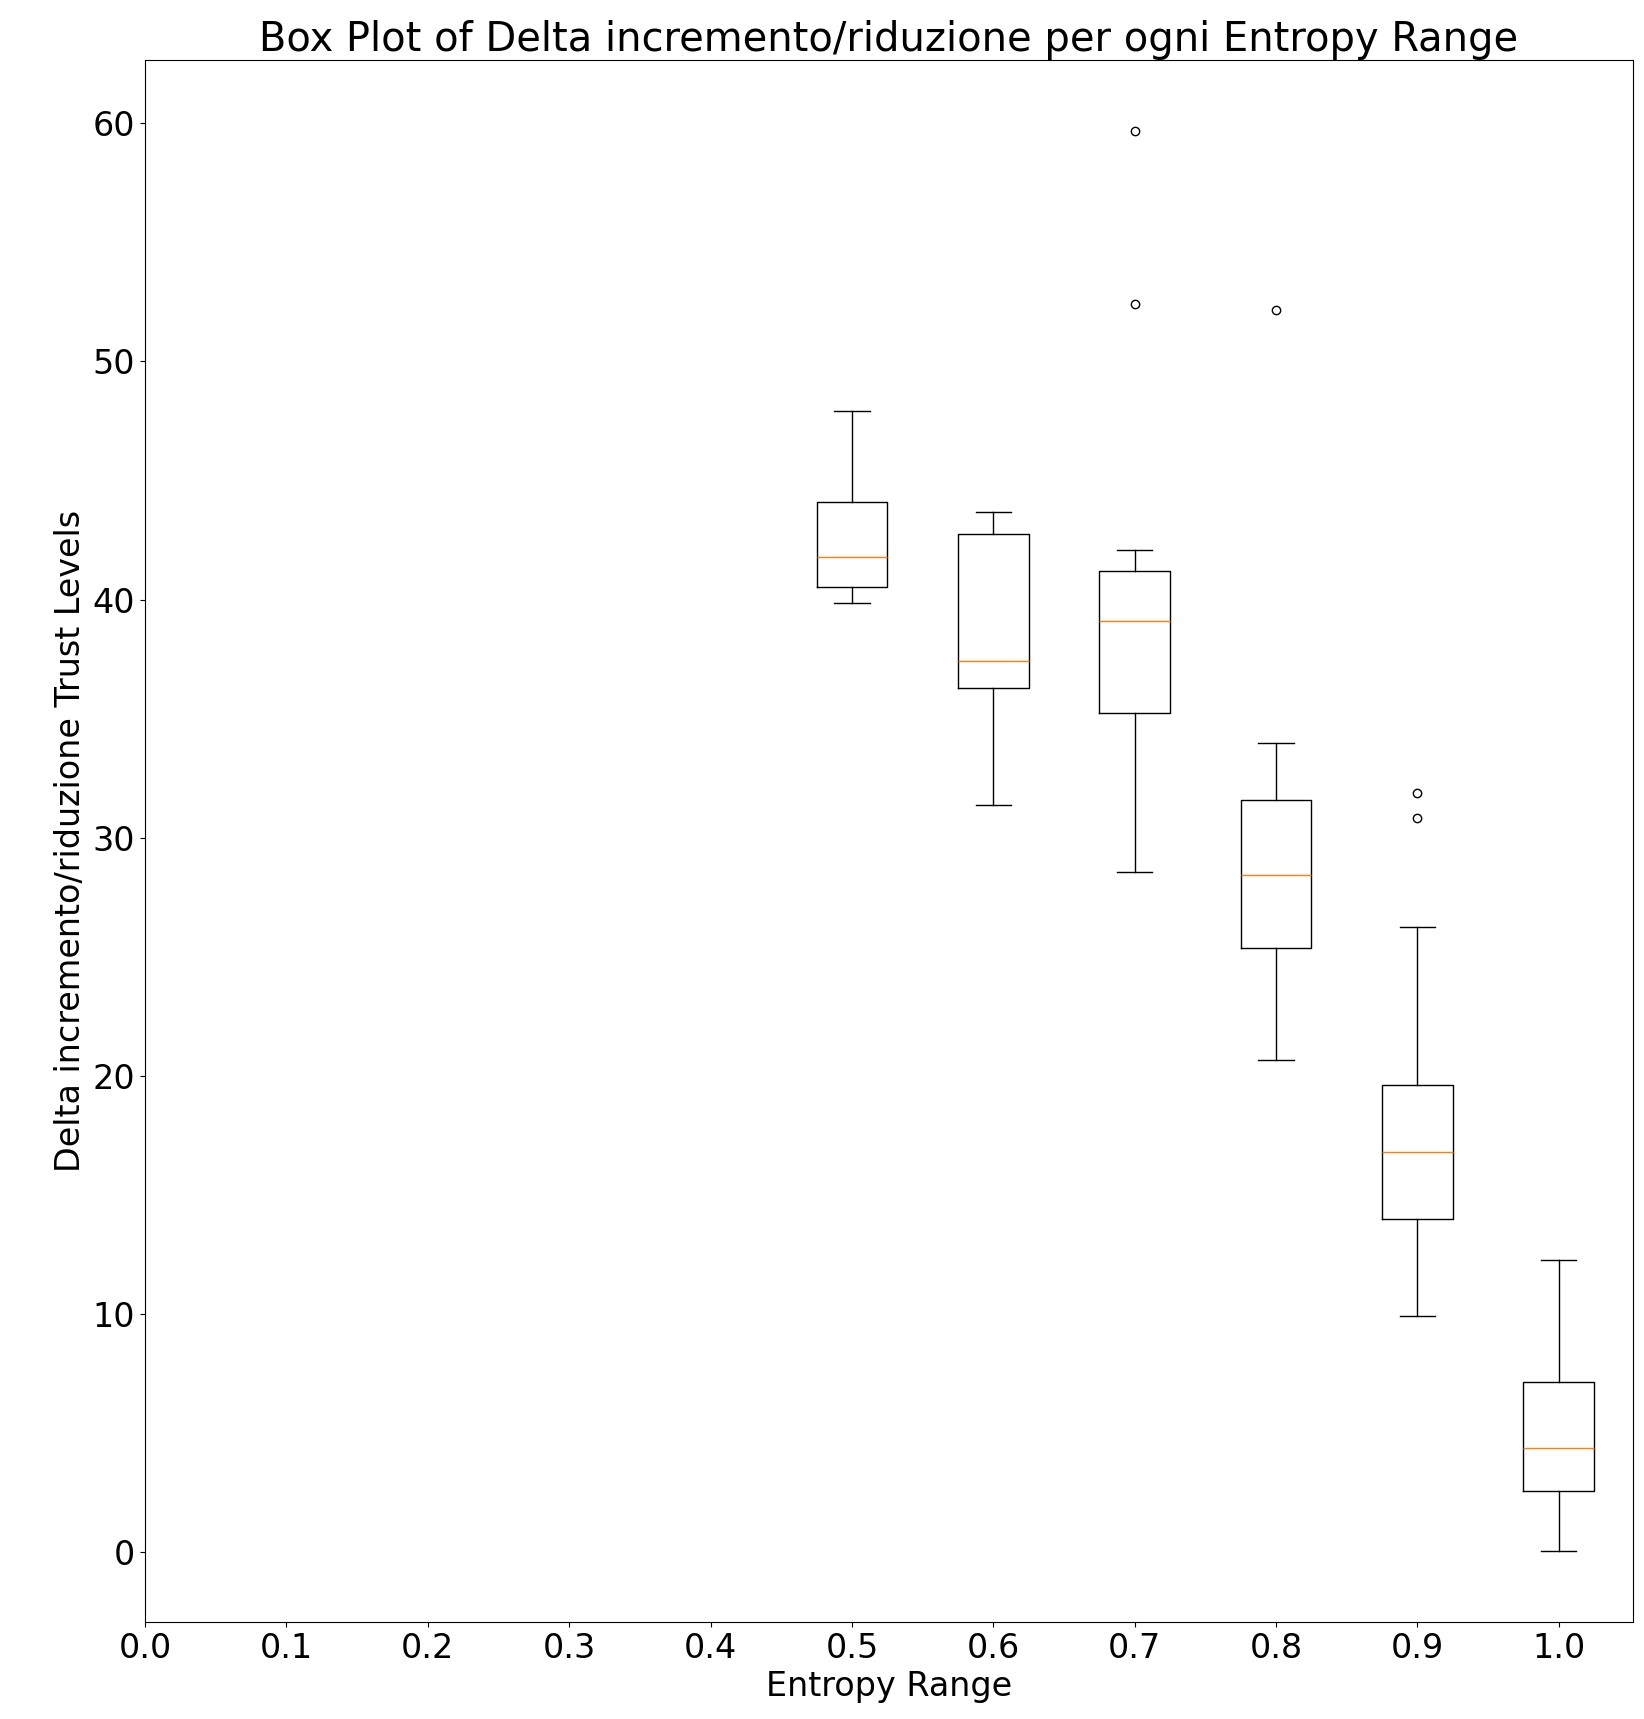
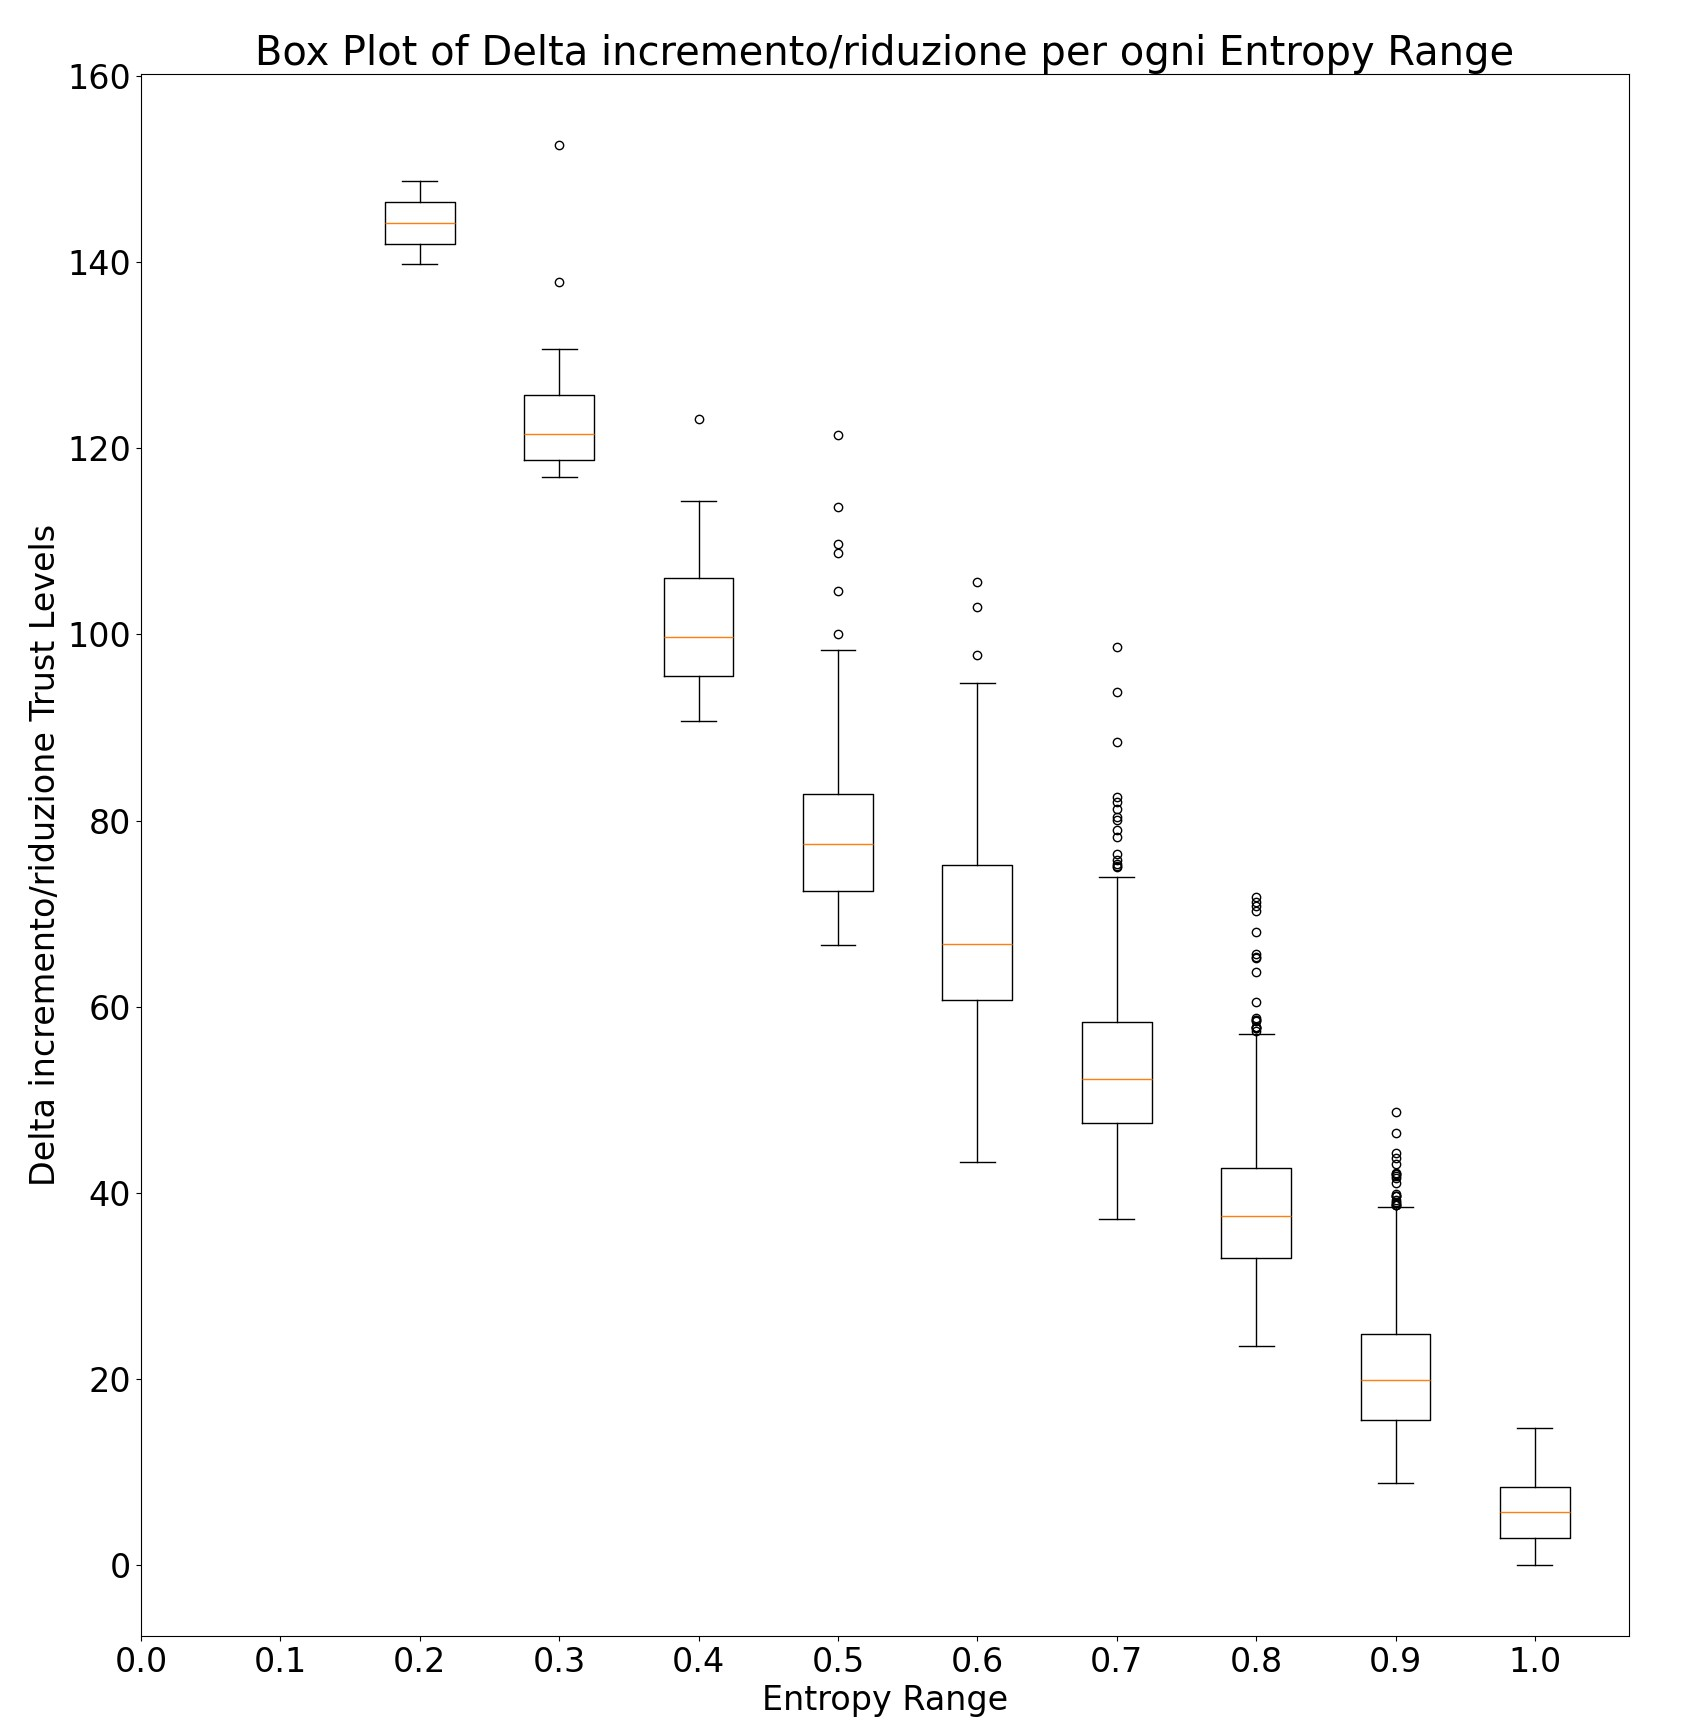
Burder di analisi

diff --git a/analysis/montecarlo_simulation.py b/analysis/montecarlo_simulation.py
@@ -4,7 +4,7 @@ import matplotlib.pyplot as plt
 def custom_round(x, prec=2, base=.1):
     return round(base * round(float(x)/base),prec)
 
-def monte_carlo_simulation(num_trusted, num_iterations, stake_valutazione, stake_condivisione):
+def monte_carlo_simulation(num_trusted, num_iterations, stake_valutazione, stake_condivisione, reset=False):
     trustlevels = np.full(num_trusted, 50.0)
     trs_tokens = np.full(num_trusted, 500.0)
 
@@ -25,9 +25,9 @@ def monte_carlo_simulation(num_trusted, num_iterations, stake_valutazione, stake
 
         evaluators = np.setdiff1d(np.arange(NUM_TRUSTED), sharer)
 
-        # Simulazione di valutazioni basate sulla affidabilità dello sharer
-        sharer_reliability = trustlevels[sharer] / 100.0
-        confidence_scores = np.random.uniform(0.4, 1.0, len(evaluators))
+        # Simulazione di valutazioni pseudo realistiche
+        # sharer_reliability = trustlevels[sharer] / 100.0
+        confidence_scores = np.random.uniform(0.4, 1.1, len(evaluators))
         correct_evaluation = np.random.choice([True, False], len(evaluators), p=[0.7, 0.3])
 
         # Check if evaluators have enough tokens for the evaluation
@@ -67,6 +67,9 @@ def monte_carlo_simulation(num_trusted, num_iterations, stake_valutazione, stake
                 probs[i] = probs[i] / np.sum(probs)
                 entropy += -(probs[i] * np.log2(probs[i]))
         entropy /= np.log2(3)
+
+
+        # Calcolo Ricompense e Penalizzazioni
 
         if not CONTENT_EVALUATION:
             correct_evaluation = np.logical_not(correct_evaluation)
@@ -116,9 +119,14 @@ def monte_carlo_simulation(num_trusted, num_iterations, stake_valutazione, stake
         # calculate gain/loss delta of previous trustlevels for each entropy range
         diff = abs(trust_levels_history[-1] - trust_levels_history[-2])
         entropy_gain_losses_history[custom_round(entropy)].append(np.sum(diff))
-        
+
+        if reset:
+            trustlevels = np.full(num_trusted, 50.0)
+            trs_tokens = np.full(num_trusted, 500.0)
+            trust_levels_history = [np.copy(trustlevels)]
+            token_trs_history = [np.copy(trs_tokens)]
+
         iterations += 1
-        
 
     return trust_levels_history, token_trs_history, entropy_gain_losses_history, iterations
 
@@ -160,12 +168,18 @@ NUM_ITERATIONS = 200
 STAKE_VALUTAZIONE = 10
 STAKE_CONDIVISIONE = 20
 M = 2.5  # Costante per la ricompensa
+plt.rcParams.update({'font.size': 24})
 
-trust_levels_history, token_trs_history, entropy_gain_losses_history, iterations = monte_carlo_simulation(
+
+# Entropy => ripetizioni
+_, _, entropy_gain_losses_history, _ = monte_carlo_simulation(
+    NUM_TRUSTED, 10000, STAKE_VALUTAZIONE, STAKE_CONDIVISIONE, True
+)
+plot_entropy_delta_boxplot(entropy_gain_losses_history)
+
+# TrustLevel e Token TRS => iterazioni
+trust_levels_history, token_trs_history, _, iterations = monte_carlo_simulation(
     NUM_TRUSTED, NUM_ITERATIONS, STAKE_VALUTAZIONE, STAKE_CONDIVISIONE
 )
-
-plt.rcParams.update({'font.size': 24})
-plot_entropy_delta_boxplot(entropy_gain_losses_history)
 plot_data(trust_levels_history, NUM_TRUSTED, iterations,  "Affidabilità")
 plot_data(token_trs_history, NUM_TRUSTED, iterations, "Token TRS")
